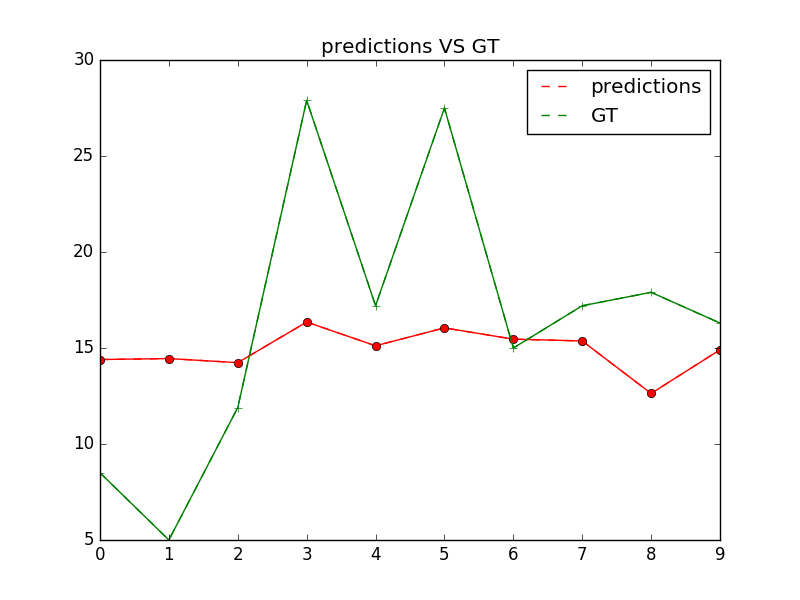
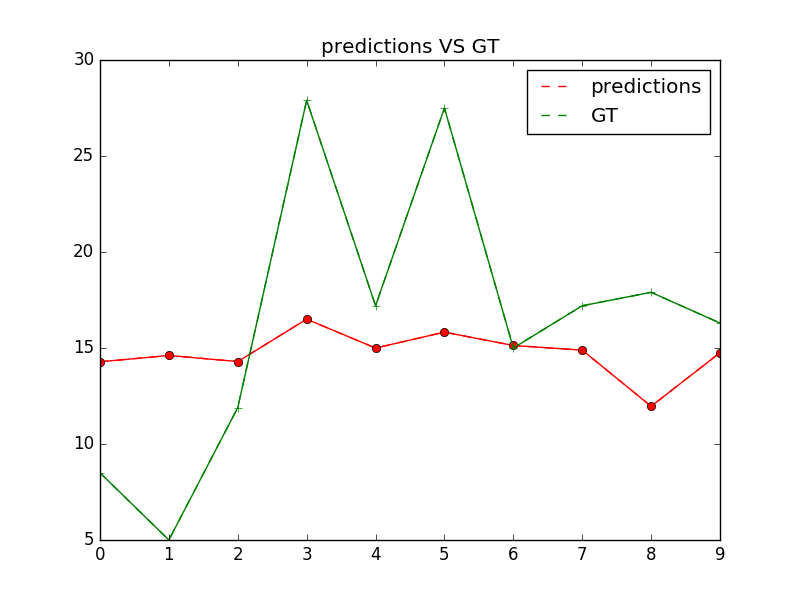
update fit a line

diff --git a/01.fit_a_line/index.cn.html b/01.fit_a_line/index.cn.html
@@ -197,6 +197,16 @@ ratio = 0.8 # 训练集和验证集的划分比例
 offset = int(data.shape[0]*ratio)
 train_data = data[:offset]
 test_data = data[offset:]
+
+train_reader = paddle.batch(
+    paddle.reader.shuffle(
+        train_data, buf_size=500),
+        batch_size=BATCH_SIZE)
+
+test_reader = paddle.batch(
+    paddle.reader.shuffle(
+        test_data, buf_size=500),
+        batch_size=BATCH_SIZE)
 ```
 
 ### 配置训练程序
@@ -284,7 +294,7 @@ plot_prompt = ploter(train_prompt, test_prompt)
 
 ### 训练主循环
 
-首先给出需要存储的目录名，并初始化一个执行器。
+给出需要存储的目录名，并初始化一个执行器。
 
 ```python
 %matplotlib inline
@@ -299,7 +309,7 @@ exe_test = fluid.Executor(place)
 
 paddlepaddle提供了reader机制来读取训练数据。reader会一次提供多列数据，因此我们需要一个python的列表来定义读取顺序。我们构建一个循环来进行训练，直到训练结果足够好或者循环次数足够多。
 如果训练迭代次数满足参数保存的迭代次数，可以把训练参数保存到`params_dirname`。
-其次设置训练主循环
+设置训练主循环
 ```python
 for pass_id in range(num_epochs):
     for data_train in train_reader():
@@ -324,12 +334,10 @@ for pass_id in range(num_epochs):
 
         if math.isnan(float(avg_loss_value[0])):
             sys.exit("got NaN loss, training failed.")
-```
 
-保存训练参数到之前给定的路径中
-```python
-if params_dirname is not None:
-    fluid.io.save_inference_model(params_dirname, ['x'], [y_predict], exe)
+        #保存训练参数到之前给定的路径中
+        if params_dirname is not None:
+            fluid.io.save_inference_model(params_dirname, ['x'], [y_predict], exe)
 ```
 
 ## 预测
@@ -367,6 +375,23 @@ with fluid.scope_guard(inference_scope):
                             fetch_list=fetch_targets) # 进行预测
 ```
 
+保存图片
+```python
+def save_result(points1, points2):
+    import matplotlib
+    matplotlib.use('Agg')
+    import matplotlib.pyplot as plt
+    x1 = [idx for idx in range(len(points1))]
+    y1 = points1
+    y2 = points2
+    l1 = plt.plot(x1, y1, 'r--', label='predictions')
+    l2 = plt.plot(x1, y2, 'g--', label='GT')
+    plt.plot(x1, y1, 'ro-', x1, y2, 'g+-')
+    plt.title('predictions VS GT')
+    plt.legend()
+    plt.savefig('./image/prediction_gt.png')
+```
+
 打印预测结果和标签并可视化结果
 ```python
  print("infer results: (House Price)")
@@ -377,7 +402,7 @@ with fluid.scope_guard(inference_scope):
  for idx, val in enumerate(infer_label):
      print("%d: %.2f" % (idx, val)) # 打印标签值
 
-save_result(results[0], infer_label) # 保存图片，该函数实现在train.py中
+save_result(results[0], infer_label) # 保存图片
 ```
 
 ## 总结

diff --git a/01.fit_a_line/README.cn.md b/01.fit_a_line/README.cn.md
@@ -155,6 +155,16 @@ ratio = 0.8 # 训练集和验证集的划分比例
 offset = int(data.shape[0]*ratio)
 train_data = data[:offset]
 test_data = data[offset:]
+
+train_reader = paddle.batch(
+    paddle.reader.shuffle(
+        train_data, buf_size=500),
+        batch_size=BATCH_SIZE)
+
+test_reader = paddle.batch(
+    paddle.reader.shuffle(
+        test_data, buf_size=500),
+        batch_size=BATCH_SIZE)
 ```
 
 ### 配置训练程序
@@ -242,7 +252,7 @@ plot_prompt = ploter(train_prompt, test_prompt)
 
 ### 训练主循环
 
-首先给出需要存储的目录名，并初始化一个执行器。
+给出需要存储的目录名，并初始化一个执行器。
 
 ```python
 %matplotlib inline
@@ -257,7 +267,7 @@ exe_test = fluid.Executor(place)
 
 paddlepaddle提供了reader机制来读取训练数据。reader会一次提供多列数据，因此我们需要一个python的列表来定义读取顺序。我们构建一个循环来进行训练，直到训练结果足够好或者循环次数足够多。
 如果训练迭代次数满足参数保存的迭代次数，可以把训练参数保存到`params_dirname`。
-其次设置训练主循环
+设置训练主循环
 ```python
 for pass_id in range(num_epochs):
     for data_train in train_reader():
@@ -282,12 +292,10 @@ for pass_id in range(num_epochs):
 
         if math.isnan(float(avg_loss_value[0])):
             sys.exit("got NaN loss, training failed.")
-```
 
-保存训练参数到之前给定的路径中
-```python
-if params_dirname is not None:
-    fluid.io.save_inference_model(params_dirname, ['x'], [y_predict], exe)
+        #保存训练参数到之前给定的路径中
+        if params_dirname is not None:
+            fluid.io.save_inference_model(params_dirname, ['x'], [y_predict], exe)
 ```
 
 ## 预测
@@ -325,6 +333,23 @@ with fluid.scope_guard(inference_scope):
                             fetch_list=fetch_targets) # 进行预测
 ```
 
+保存图片
+```python
+def save_result(points1, points2):
+    import matplotlib
+    matplotlib.use('Agg')
+    import matplotlib.pyplot as plt
+    x1 = [idx for idx in range(len(points1))]
+    y1 = points1
+    y2 = points2
+    l1 = plt.plot(x1, y1, 'r--', label='predictions')
+    l2 = plt.plot(x1, y2, 'g--', label='GT')
+    plt.plot(x1, y1, 'ro-', x1, y2, 'g+-')
+    plt.title('predictions VS GT')
+    plt.legend()
+    plt.savefig('./image/prediction_gt.png')
+```
+
 打印预测结果和标签并可视化结果
 ```python
  print("infer results: (House Price)")
@@ -335,7 +360,7 @@ with fluid.scope_guard(inference_scope):
  for idx, val in enumerate(infer_label):
      print("%d: %.2f" % (idx, val)) # 打印标签值
 
-save_result(results[0], infer_label) # 保存图片，该函数实现在train.py中
+save_result(results[0], infer_label) # 保存图片
 ```
 
 ## 总结
